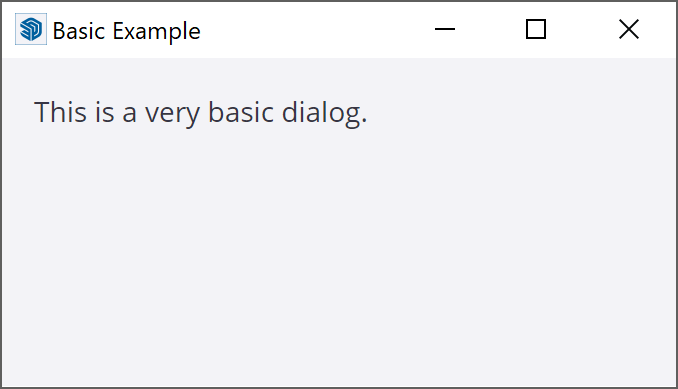
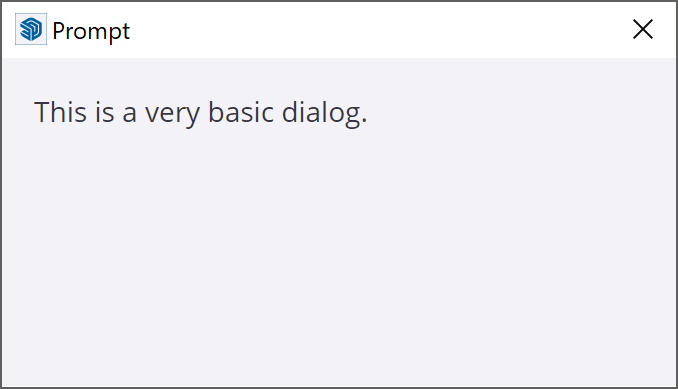
Hide irrelevant window buttons

diff --git a/internal/generate_imagery.rb b/internal/generate_imagery.rb
@@ -31,7 +31,7 @@ html = <<-HTML
 </html>
 HTML
 
-dialog = UI::HtmlDialog.new(dialog_title: "Prompt")
+dialog = UI::HtmlDialog.new(dialog_title: "Prompt", resizable: false)
 dialog.set_html(html)
 dialog.set_size(350, 200)
 dialog.show
